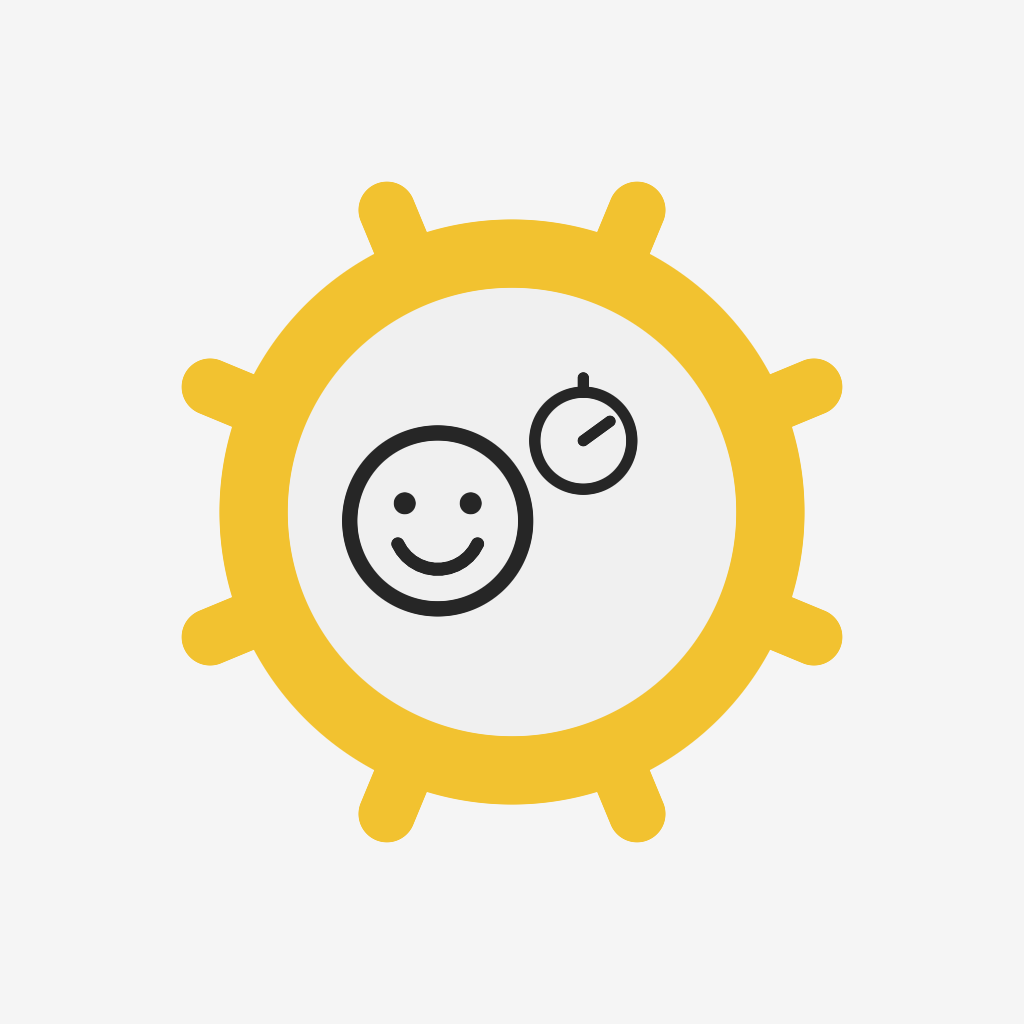
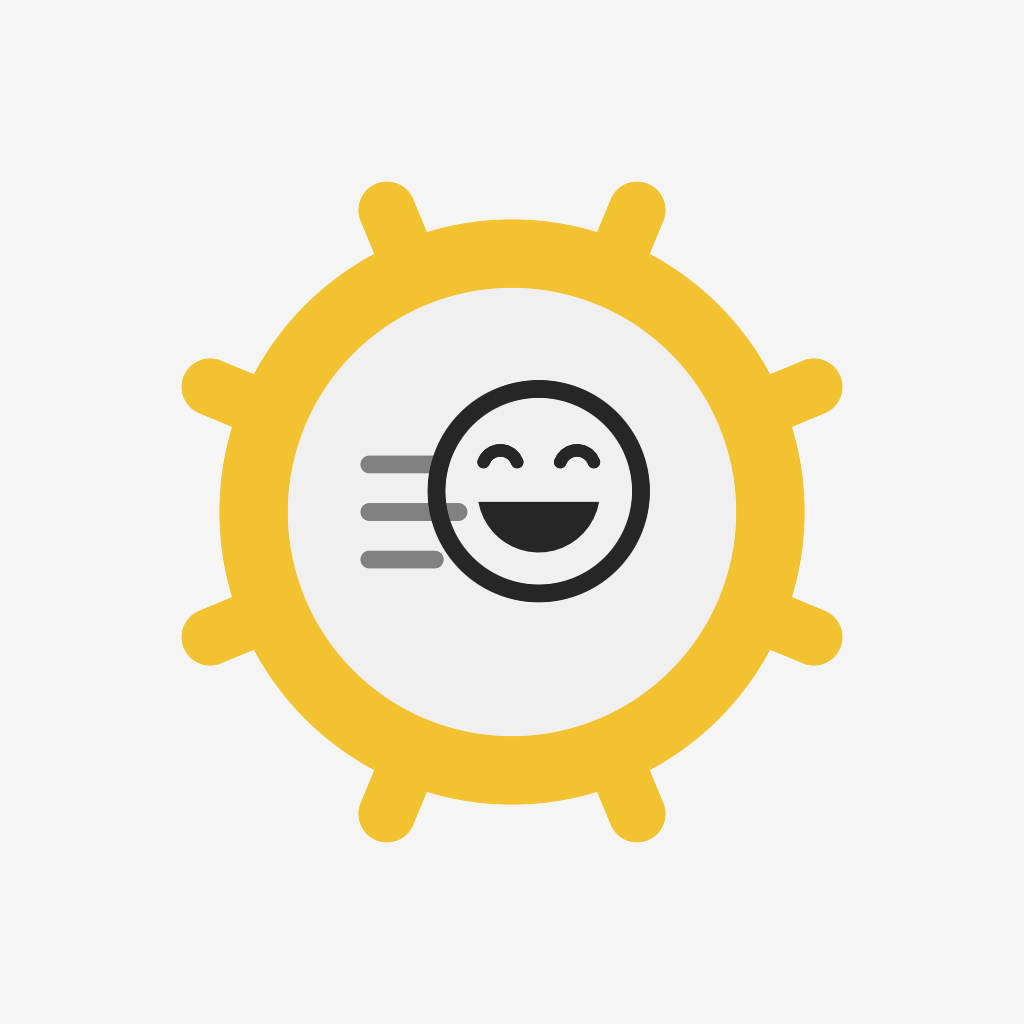
Use a laughing speed-smiley for the timed Classics
The smiley + separate stopwatch read as two objects crammed together.
Replace it with one subject: the Classics smiley laughing, with trailing
speed lines — "fast + delighted" in a single glyph. Regenerate the
committed ASC set.

Changed region(s): [[0.3125, 0.3438, 0.6562, 0.625]]

diff --git a/Packages/DonpaCore/Sources/DonpaKit/Scoreboard/MedalView+Parts.swift b/Packages/DonpaCore/Sources/DonpaKit/Scoreboard/MedalView+Parts.swift
@@ -212,30 +212,70 @@ extension MedalView {
     }
 
     /// The classic Minesweeper reset-button smiley — the face of "The Classics".
-    static func smiley(in ctx: GraphicsContext, side s: CGFloat, ink: Color) {
+    /// `laughing` swaps the dot eyes for happy arcs and opens the grin, for the
+    /// timed variant.
+    static func smiley(
+        in ctx: GraphicsContext, side s: CGFloat, ink: Color, laughing: Bool = false
+    ) {
         let inset = s * 0.10
         let rect = CGRect(x: inset, y: inset, width: s - 2 * inset, height: s - 2 * inset)
         let c = CGPoint(x: s / 2, y: s / 2)
         ctx.stroke(
             Path(ellipseIn: rect), with: .color(ink), style: StrokeStyle(lineWidth: s * 0.07))
-        // Two dot eyes.
-        let eyeR = s * 0.05
-        for dx in [-s * 0.15, s * 0.15] {
-            let e = CGPoint(x: c.x + dx, y: c.y - s * 0.08)
-            ctx.fill(
-                Path(
-                    ellipseIn: CGRect(
-                        x: e.x - eyeR, y: e.y - eyeR, width: eyeR * 2, height: eyeR * 2)),
-                with: .color(ink))
+        let eyeY = c.y - s * 0.09
+        if laughing {
+            // Happy squinting eyes: two small upward arcs (∩-shaped).
+            for dx in [-s * 0.15, s * 0.15] {
+                var eye = Path()
+                eye.addArc(
+                    center: CGPoint(x: c.x + dx, y: eyeY), radius: s * 0.07,
+                    startAngle: .degrees(200), endAngle: .degrees(340), clockwise: false)
+                ctx.stroke(
+                    eye, with: .color(ink),
+                    style: StrokeStyle(lineWidth: s * 0.05, lineCap: .round))
+            }
+        } else {
+            let eyeR = s * 0.05
+            for dx in [-s * 0.15, s * 0.15] {
+                let e = CGPoint(x: c.x + dx, y: eyeY)
+                ctx.fill(
+                    Path(
+                        ellipseIn: CGRect(
+                            x: e.x - eyeR, y: e.y - eyeR, width: eyeR * 2, height: eyeR * 2)),
+                    with: .color(ink))
+            }
         }
-        // An upturned smile arc.
         var mouth = Path()
-        let mr = s * 0.20
+        let mr = s * (laughing ? 0.24 : 0.20)
         mouth.addArc(
-            center: CGPoint(x: c.x, y: c.y + s * 0.02), radius: mr,
-            startAngle: .degrees(25), endAngle: .degrees(155), clockwise: false)
+            center: CGPoint(x: c.x, y: c.y + s * (laughing ? 0.0 : 0.02)), radius: mr,
+            startAngle: .degrees(laughing ? 10 : 25), endAngle: .degrees(laughing ? 170 : 155),
+            clockwise: false)
+        if laughing {
+            // Close the open grin with a lip so it reads as a laugh, not a bowl.
+            mouth.closeSubpath()
+            ctx.fill(mouth, with: .color(ink))
+        } else {
+            ctx.stroke(
+                mouth, with: .color(ink), style: StrokeStyle(lineWidth: s * 0.06, lineCap: .round))
+        }
+    }
+
+    /// The Classics smiley shoved forward with trailing speed lines — "fast".
+    static func speedSmiley(in ctx: GraphicsContext, side s: CGFloat, ink: Color) {
+        // Trailing stripes behind (left of) the face.
+        var stripes = Path()
+        for (y, len) in [(0.34, 0.22), (0.50, 0.30), (0.66, 0.22)] {
+            stripes.move(to: CGPoint(x: s * 0.02, y: s * y))
+            stripes.addLine(to: CGPoint(x: s * (0.02 + len), y: s * y))
+        }
         ctx.stroke(
-            mouth, with: .color(ink), style: StrokeStyle(lineWidth: s * 0.06, lineCap: .round))
+            stripes, with: .color(ink.opacity(0.55)),
+            style: StrokeStyle(lineWidth: s * 0.06, lineCap: .round))
+        // The face, nudged right to make room for the stripes.
+        var face = ctx
+        face.translateBy(x: s * 0.16, y: 0)
+        smiley(in: face, side: s * 0.86, ink: ink, laughing: true)
     }
 
     static func label(

diff --git a/Packages/DonpaCore/Sources/DonpaKit/Scoreboard/MedalView.swift b/Packages/DonpaCore/Sources/DonpaKit/Scoreboard/MedalView.swift
@@ -149,16 +149,7 @@ struct MedalView: View {
         .luckCoinFlip: { coin(in: $0, side: $1, label: "1/2", ink: $2) },
         .fullClearSize: { BoardGlyph.draw(.grid, in: $0, side: $1, color: $2) },
         .trifecta: { smiley(in: $0, side: $1, ink: $2) },
-        .trifectaTime: { ctx, s, ink in
-            // The Classics smiley lower-left, a clean stopwatch upper-right in
-            // its own sub-context (a cramped corner clock didn't read as one).
-            var face = ctx
-            face.translateBy(x: -s * 0.12, y: s * 0.16)
-            smiley(in: face, side: s * 0.74, ink: ink)
-            var watch = ctx
-            watch.translateBy(x: s * 0.50, y: s * 0.02)
-            stopwatch(in: watch, side: s * 0.48, ink: ink)
-        },
+        .trifectaTime: { speedSmiley(in: $0, side: $1, ink: $2) },
         .milesWins: { MangaIcon.draw(.flag, in: $0, side: $1, color: $2) },
         .milesTiles: { ctx, s, ink in
             bootAsset(